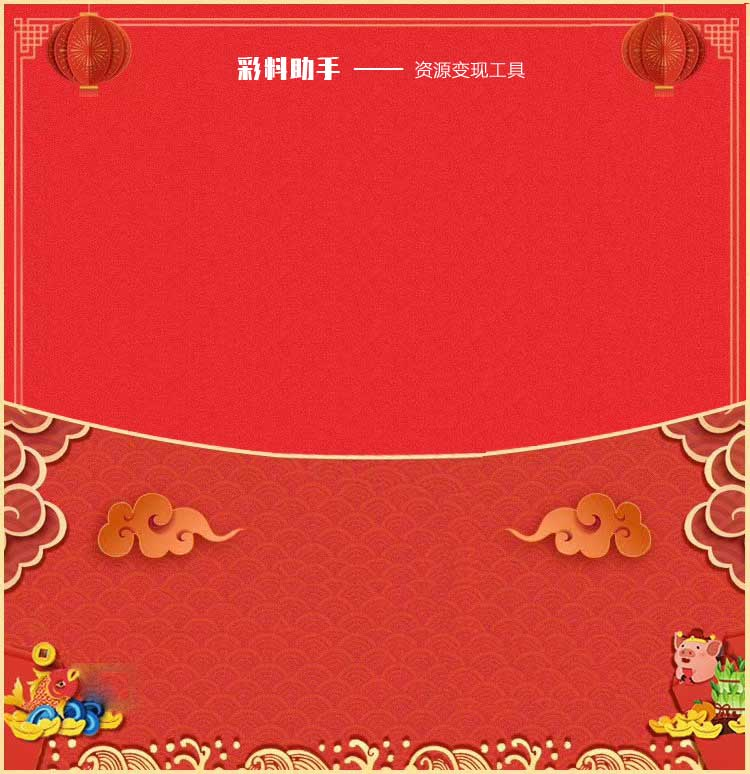
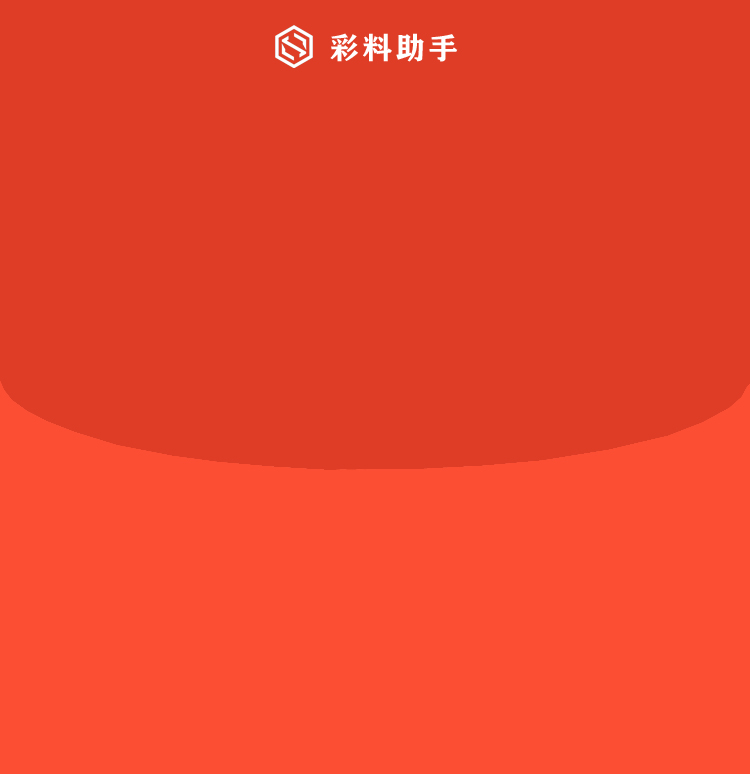
替换logo和模板

diff --git a/src/main/java/com/baoliao/weixin/util/Utils.java b/src/main/java/com/baoliao/weixin/util/Utils.java
@@ -228,8 +228,8 @@ public class Utils {
         return df.format(d);
     }
     public static void main(String[] args) {
-//        System.out.println(zxingCodeCreate("http://k5eqmb.natappfree.cc/product/detailInfo?id=7&price=1", "D:/CCQ/", 500, "D:\\CCQ\\ideaWork\\baoliao\\src\\main\\resources\\static\\img\\logo.png"));
-        String st = "䵺";
-        System.out.println(st);
+        System.out.println(zxingCodeCreate("http://k5eqmb.natappfree.cc/product/detailInfo?id=7&price=1", "D:/CCQ/", 500, "D:\\CCQ\\ideaWork\\baoliao\\src\\main\\resources\\static\\img\\logo.png"));
+//        String st = "䵺";
+//        System.out.println(st);
     }
 }
